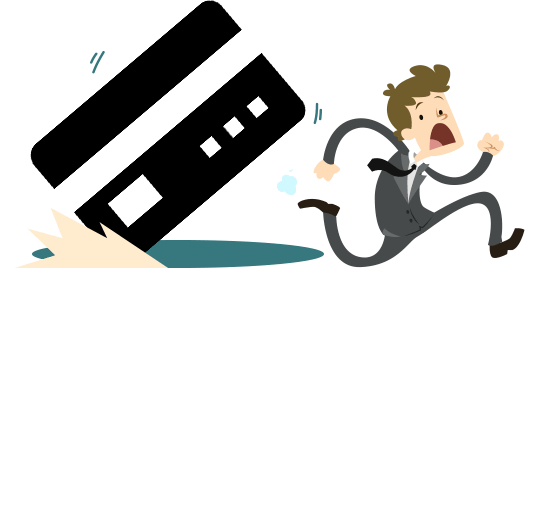
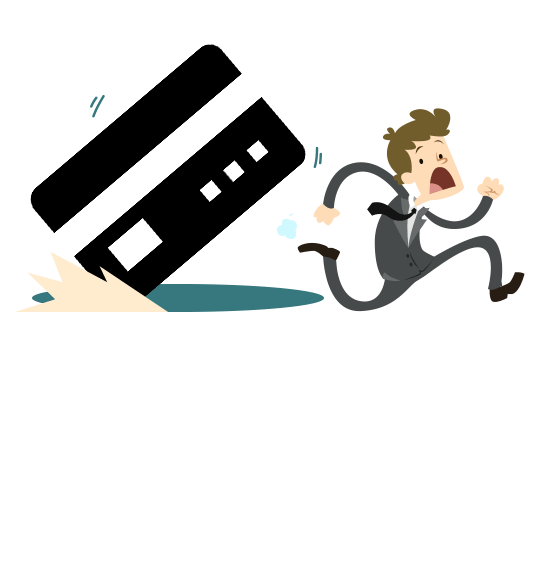
It will modifies the images of Index.html

Changed region(s): [[0.0297, 0.0, 0.9814, 0.5581], [0.1487, 0.093, 0.2082, 0.124]]

diff --git a/index.html b/index.html
@@ -1,3 +1,4 @@
+
 <!DOCTYPE html>
 <html>
   <head>
@@ -227,22 +228,27 @@
       <center><a href="#">Click to Learn About Bitcoin</a></center><!--Link to learn more about Bitcoin-->
     </div>
     <div id="power"><!--Div containing section about the power of bitcoin-->
+     <!-- Safe -->
       <div id="safe"><!--Panel about safety of Bitcoin-->
-        <p class="powerH">Safe</p><!--Panel Header-->
+        <p id="sa" class="powerH">Safe</p><!--Panel Header-->
         <p id="safeP" class="powerP">Bitcoin transactions provide greater anonymity for both buyers and sellers than both cash and credit card transactions.</p><!--Panel text-->
         <img class="powerI" src="images/safe_man.png"/><!--Panel image-->
         <div class="powerBack" id="safeBack"><!--Panel background-->
         </div>
       </div>
+      
+      <!-- Instant -->
       <div id="instant"><!--Panel about speed of Bitcoin-->
-        <p class="powerH">Instant</p><!--Panel Header-->
+        <p id="in" class="powerH">Instant</p><!--Panel Header-->
         <p id="instantP" class="powerP">Whereas traditional wire transfers can take days, bitcoin enables users to transfer money in minutes.</p><!--Panel text-->
         <img class="powerI" id="instantMan" src="images/instant_man.png"/><!--Panel image-->
         <div class="powerBack" id="instantBack"><!--Panel background-->
         </div>
       </div>
+      
+      <!-- Free -->
       <div id="free"><!--Panel about free-ness of Bitcoin-->
-        <p class="powerH">Free</p><!--Panel Header-->
+        <p id="fr" class="powerH">Free</p><!--Panel Header-->
         <p id="freeP" class="powerP">Without the burden of a central bank, bitcoin users can make payments and transfers anywhere without worrying about various governmental fees.</p><!--Panel text-->
         <img class="powerI" src="images/free_man.png"/><!--Panel image-->
         <div class="powerBack" id="freeBack"><!--Panel background-->
@@ -261,7 +267,7 @@
         <span id="startNow"><a href="#">START ACCEPTING BITCOIN IN 3 EASY STEPS</a></span><br>
         <span id="partner">BECOME A PAYLOAD PARTNER FOR FREE</span>
       </div>
-      <img src="images/elegant_man.png" class="centeredTaco"/><!--Picture-->
+      <img src="images/elegant_man.png" class="centeredTaco" style="bottom:0"/><!--Picture-->
     </div>
     <div id="filler"><!--Filler used to test footer-->
     </div>

diff --git a/css/index.css b/css/index.css
@@ -227,12 +227,52 @@ body{
 }
 #power{
   top:1260px;
+  margin-left:25px;
   overflow:hidden;
 }
+@media screen and (max-width : 1100px)
+{
+	#power{
+		margin-left:0px;
+	}
+}
+
+@media screen and (min-width : 1000px)
+{
+#safeBack {
+width:450px;
+}
+#safeP{
+width:450px;
+} 
+#instantP {
+width:450px;
+}
+#instantBack{
+width:450px;
+}
+#freeP{
+width:450px;
+}
+#freeBack{
+width:450px;
+}
+#sa{
+width:450px;
+}
+#in{
+width:450px;
+}
+#fr{
+width:450px;
+}
+}
+
 #safe{
   font-family:'Muli';
   display:block;
   position:absolute;
+  
 }
 #instant{
   font-family:'Muli';

diff --git a/faq.html b/faq.html
@@ -187,9 +187,9 @@
 <div class="page-header">
 <div class="container">
 
-<div class="navbar-text" style="width:100%">
-<img src="images/logoWhite.png" height="50" alt="payload">Payload
-<img style="float:right" src="images/bitCoin.png" alt="bitCoin"/>
+<div class="navbar-text" style="width:100% ; height:inherit">
+<img  src="images/logoWhite.png" height="50" alt="payload">Payload
+<img class="img-responsive" style="float:right" src="images/bitCoin.png" alt="bitCoin"/>
 </div>
 
 	<div class="col-lg-12">
